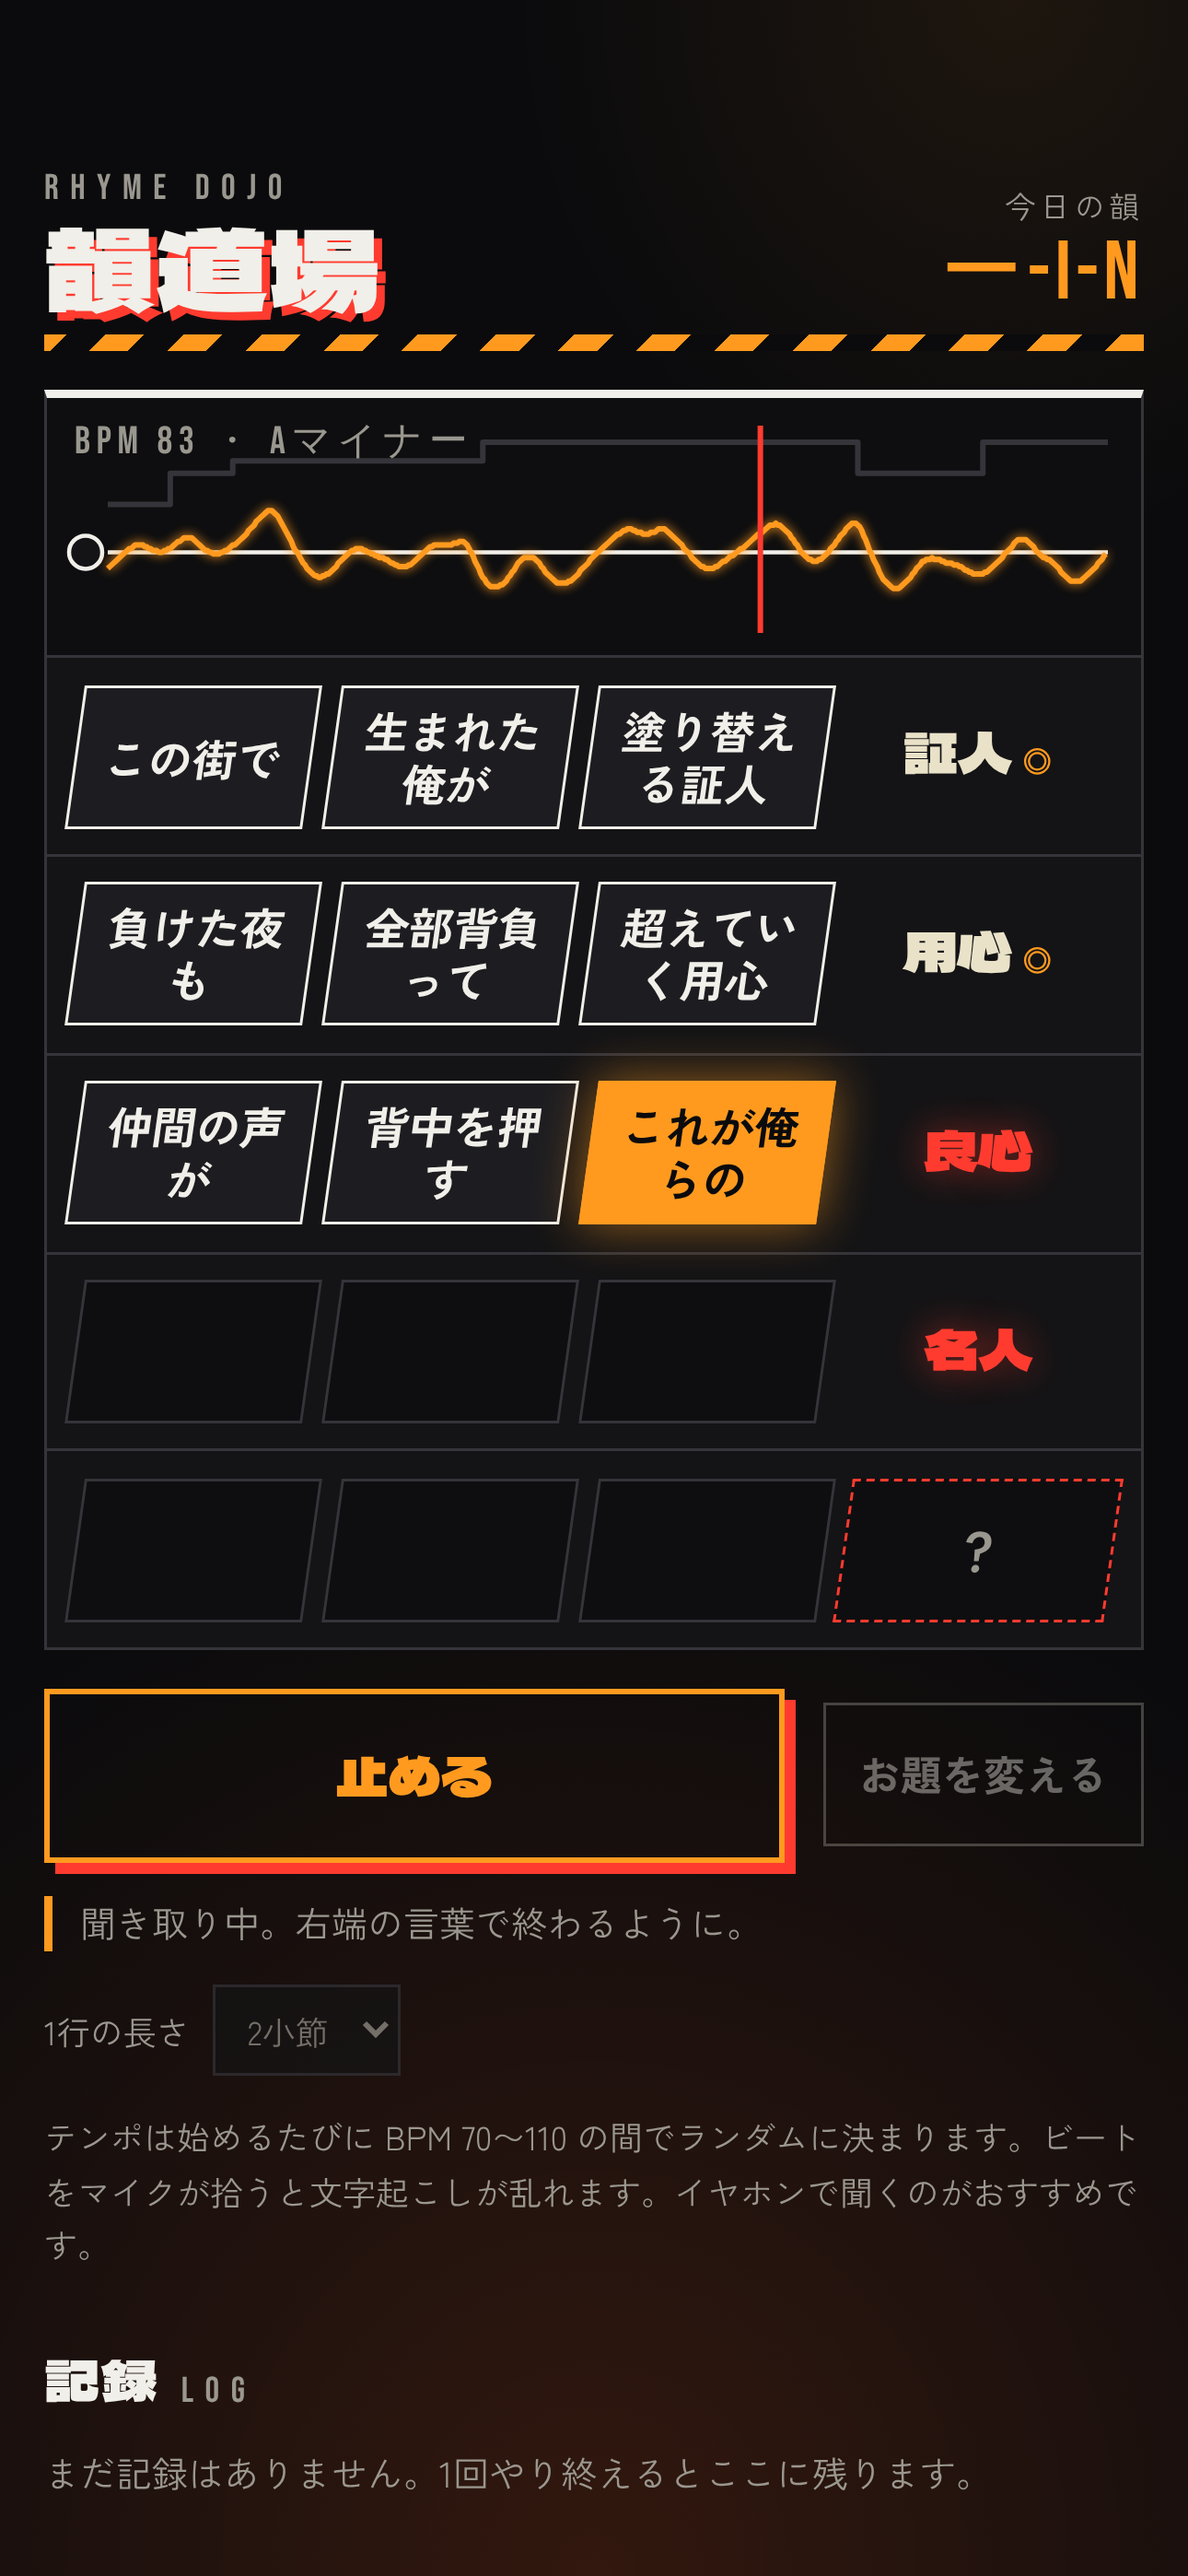
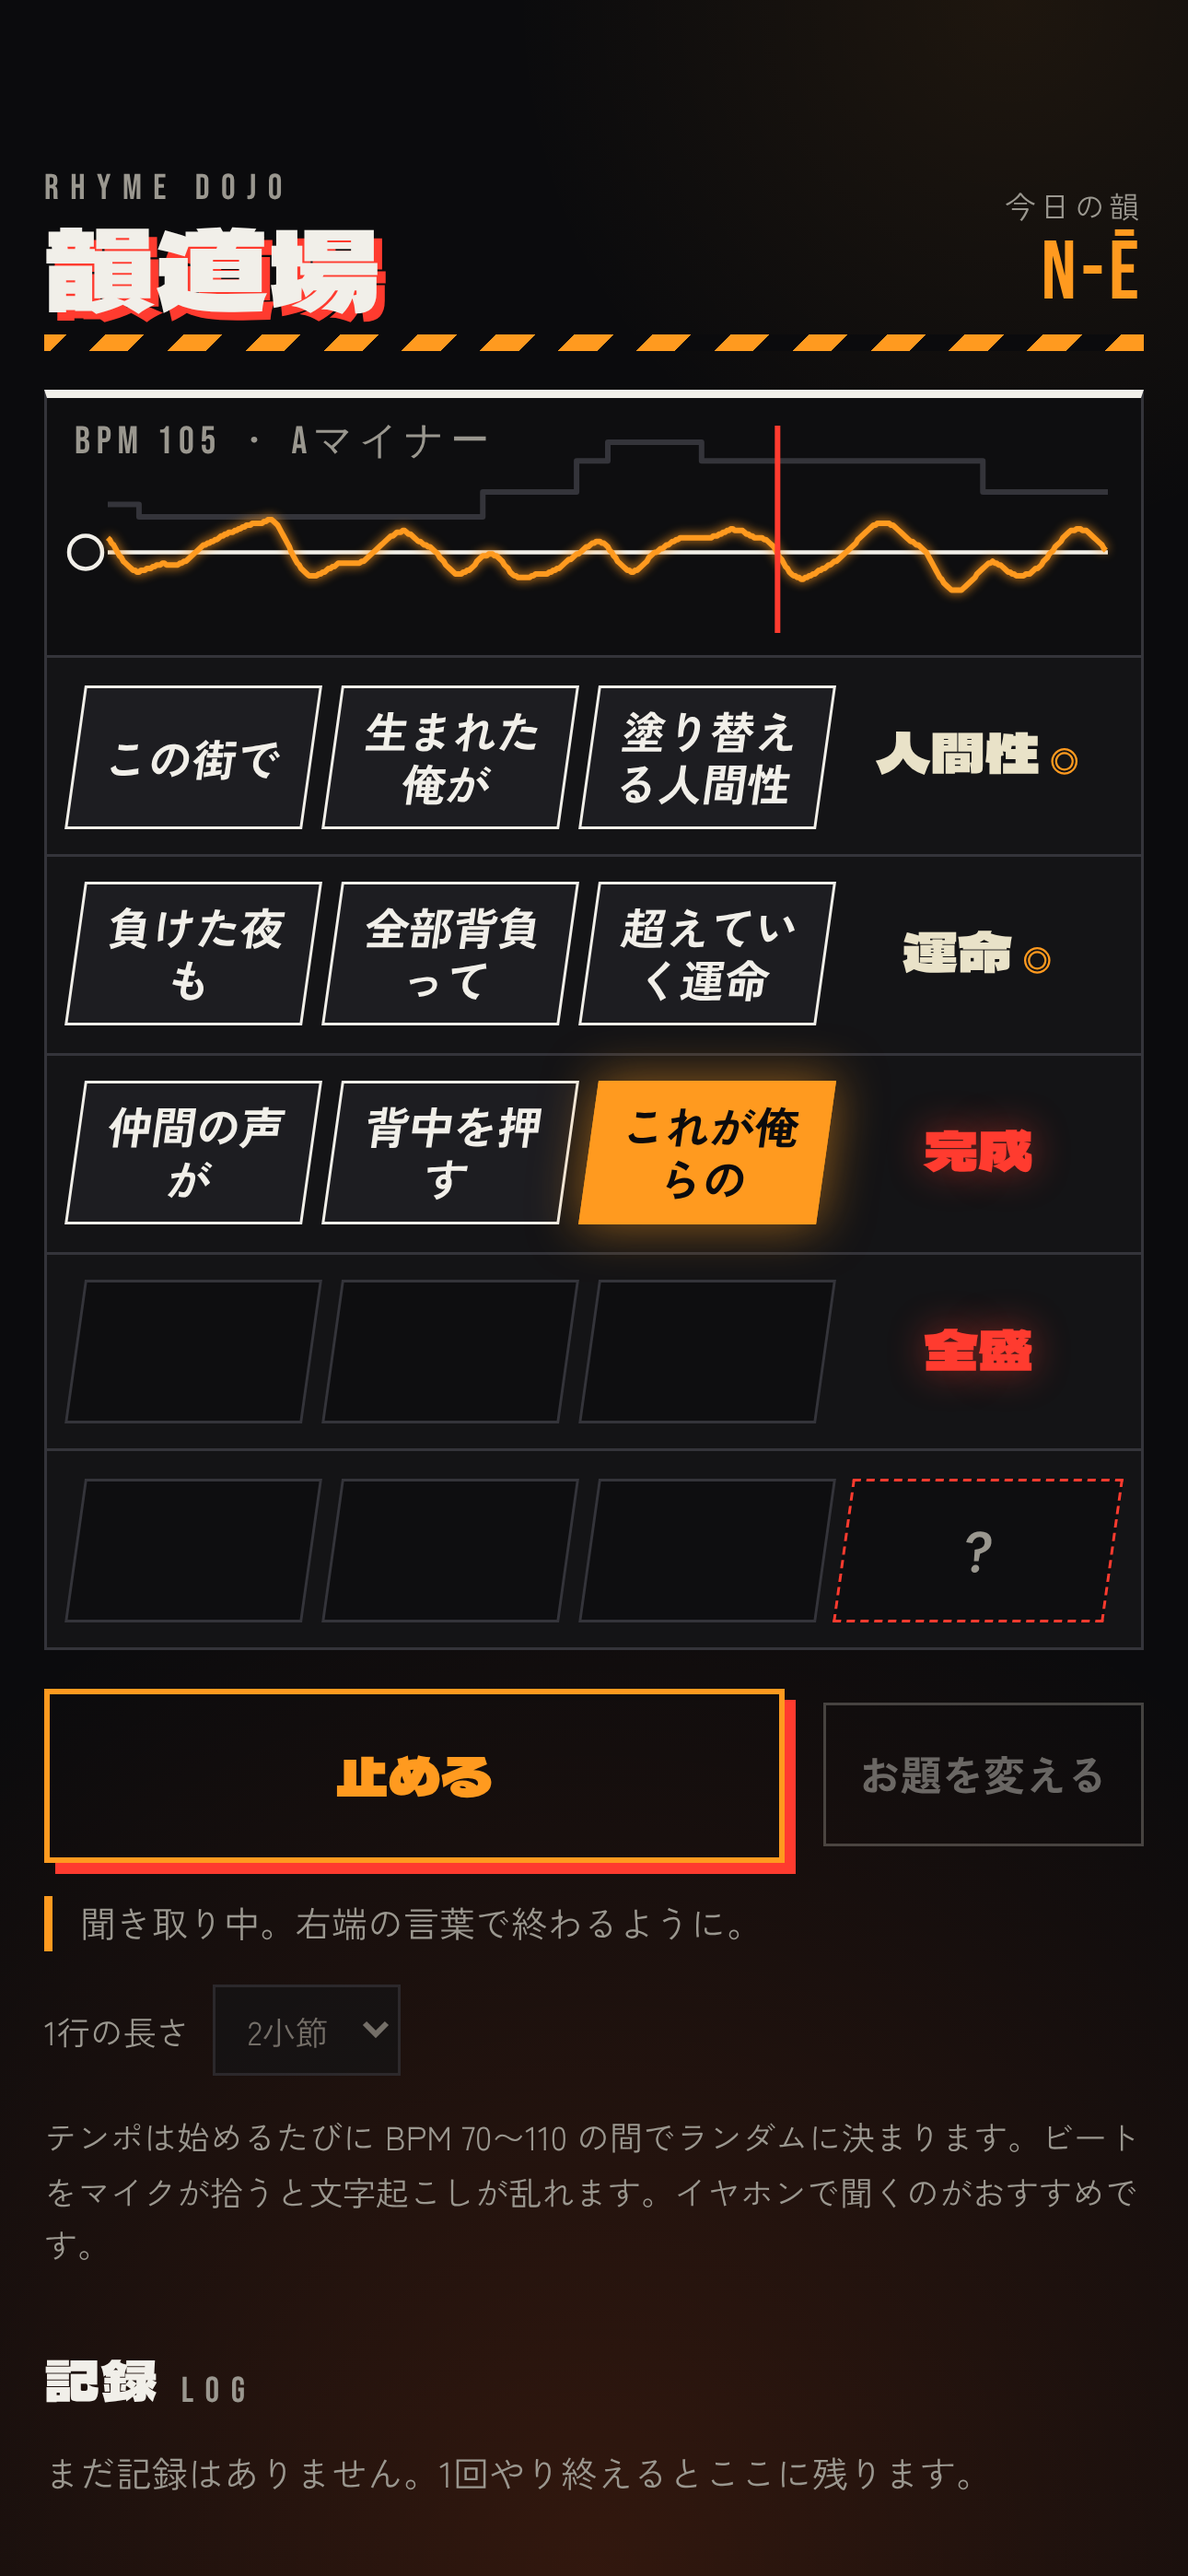
韻の表示から先頭ののばし棒を除く、スクリーンショット更新
Claude-Session: https://claude.ai/code/session_01SadzvoLVSXQghZFQ6re5LR

diff --git a/index.html b/index.html
@@ -215,7 +215,7 @@ const LONG={A:'Ā',I:'Ī',U:'Ū',E:'Ē',O:'Ō'};
 function keyLabel(k){
   const out=[];
   for(const c of (k||'')){
-    if(c==='R'){ const p=out[out.length-1]; if(p&&LONG[p]) out[out.length-1]=LONG[p]; else out.push('ー'); }
+    if(c==='R'){ const p=out[out.length-1]; if(p&&LONG[p]) out[out.length-1]=LONG[p]; }
     else out.push(c.toUpperCase());
   }
   return out.join('-');
